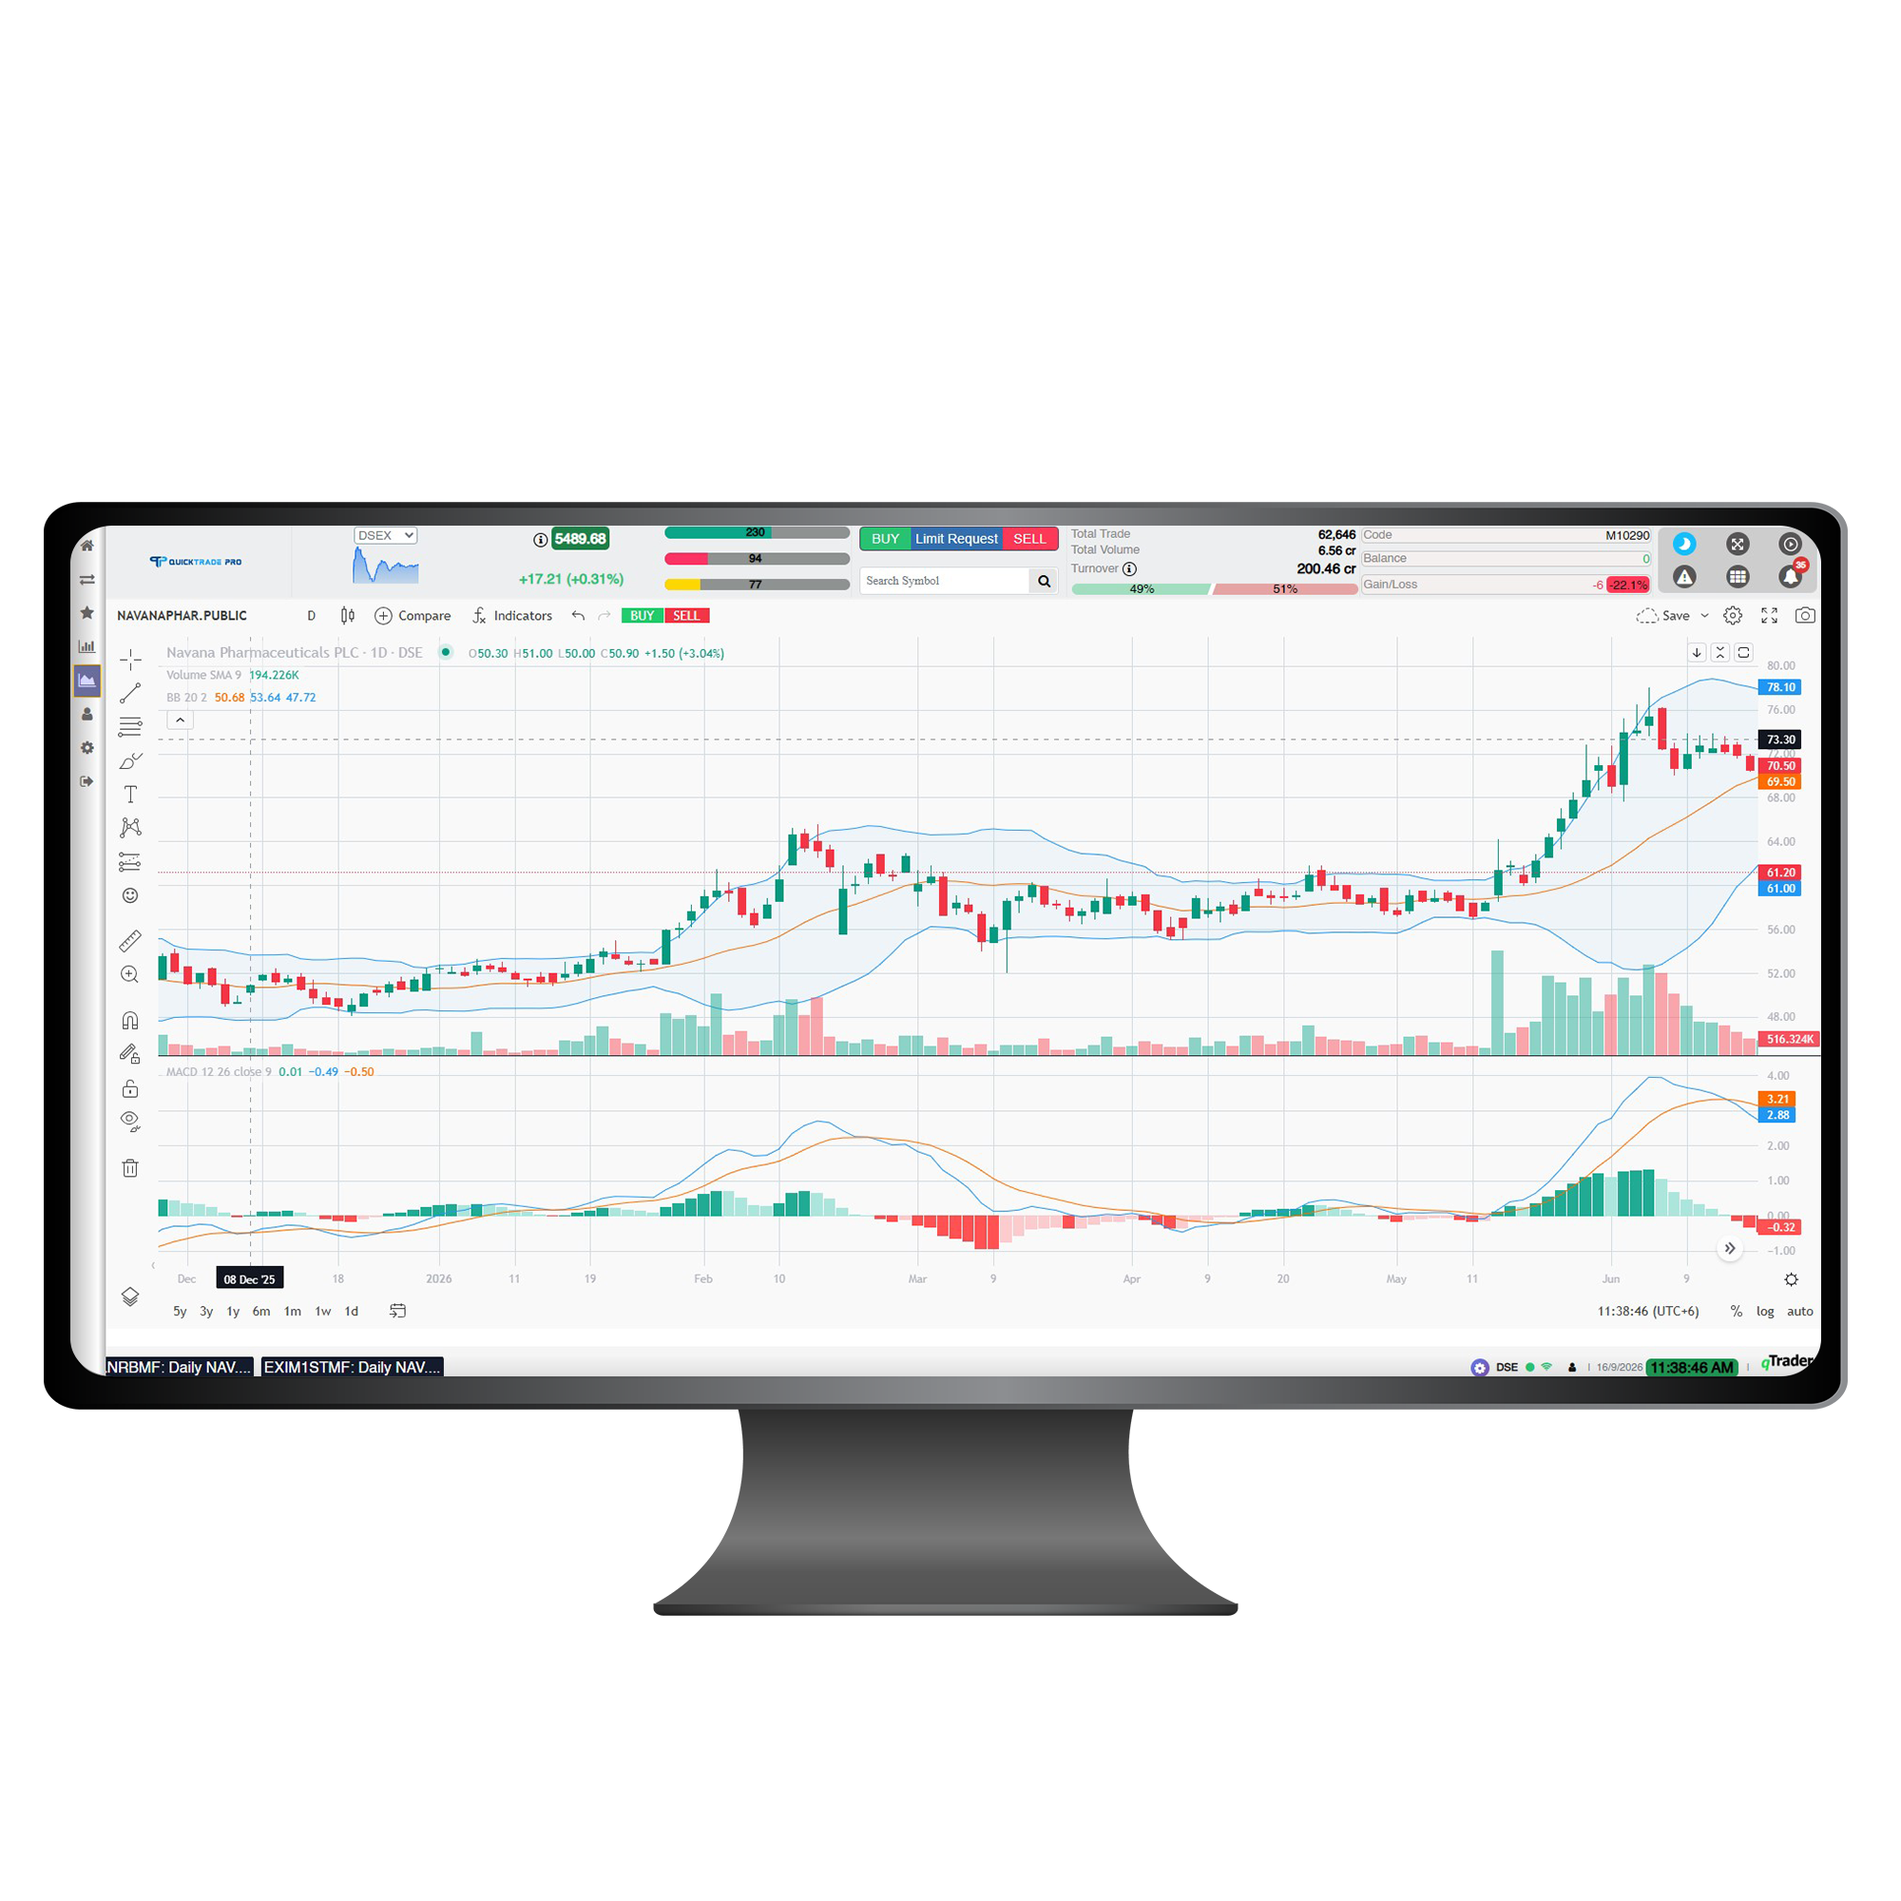
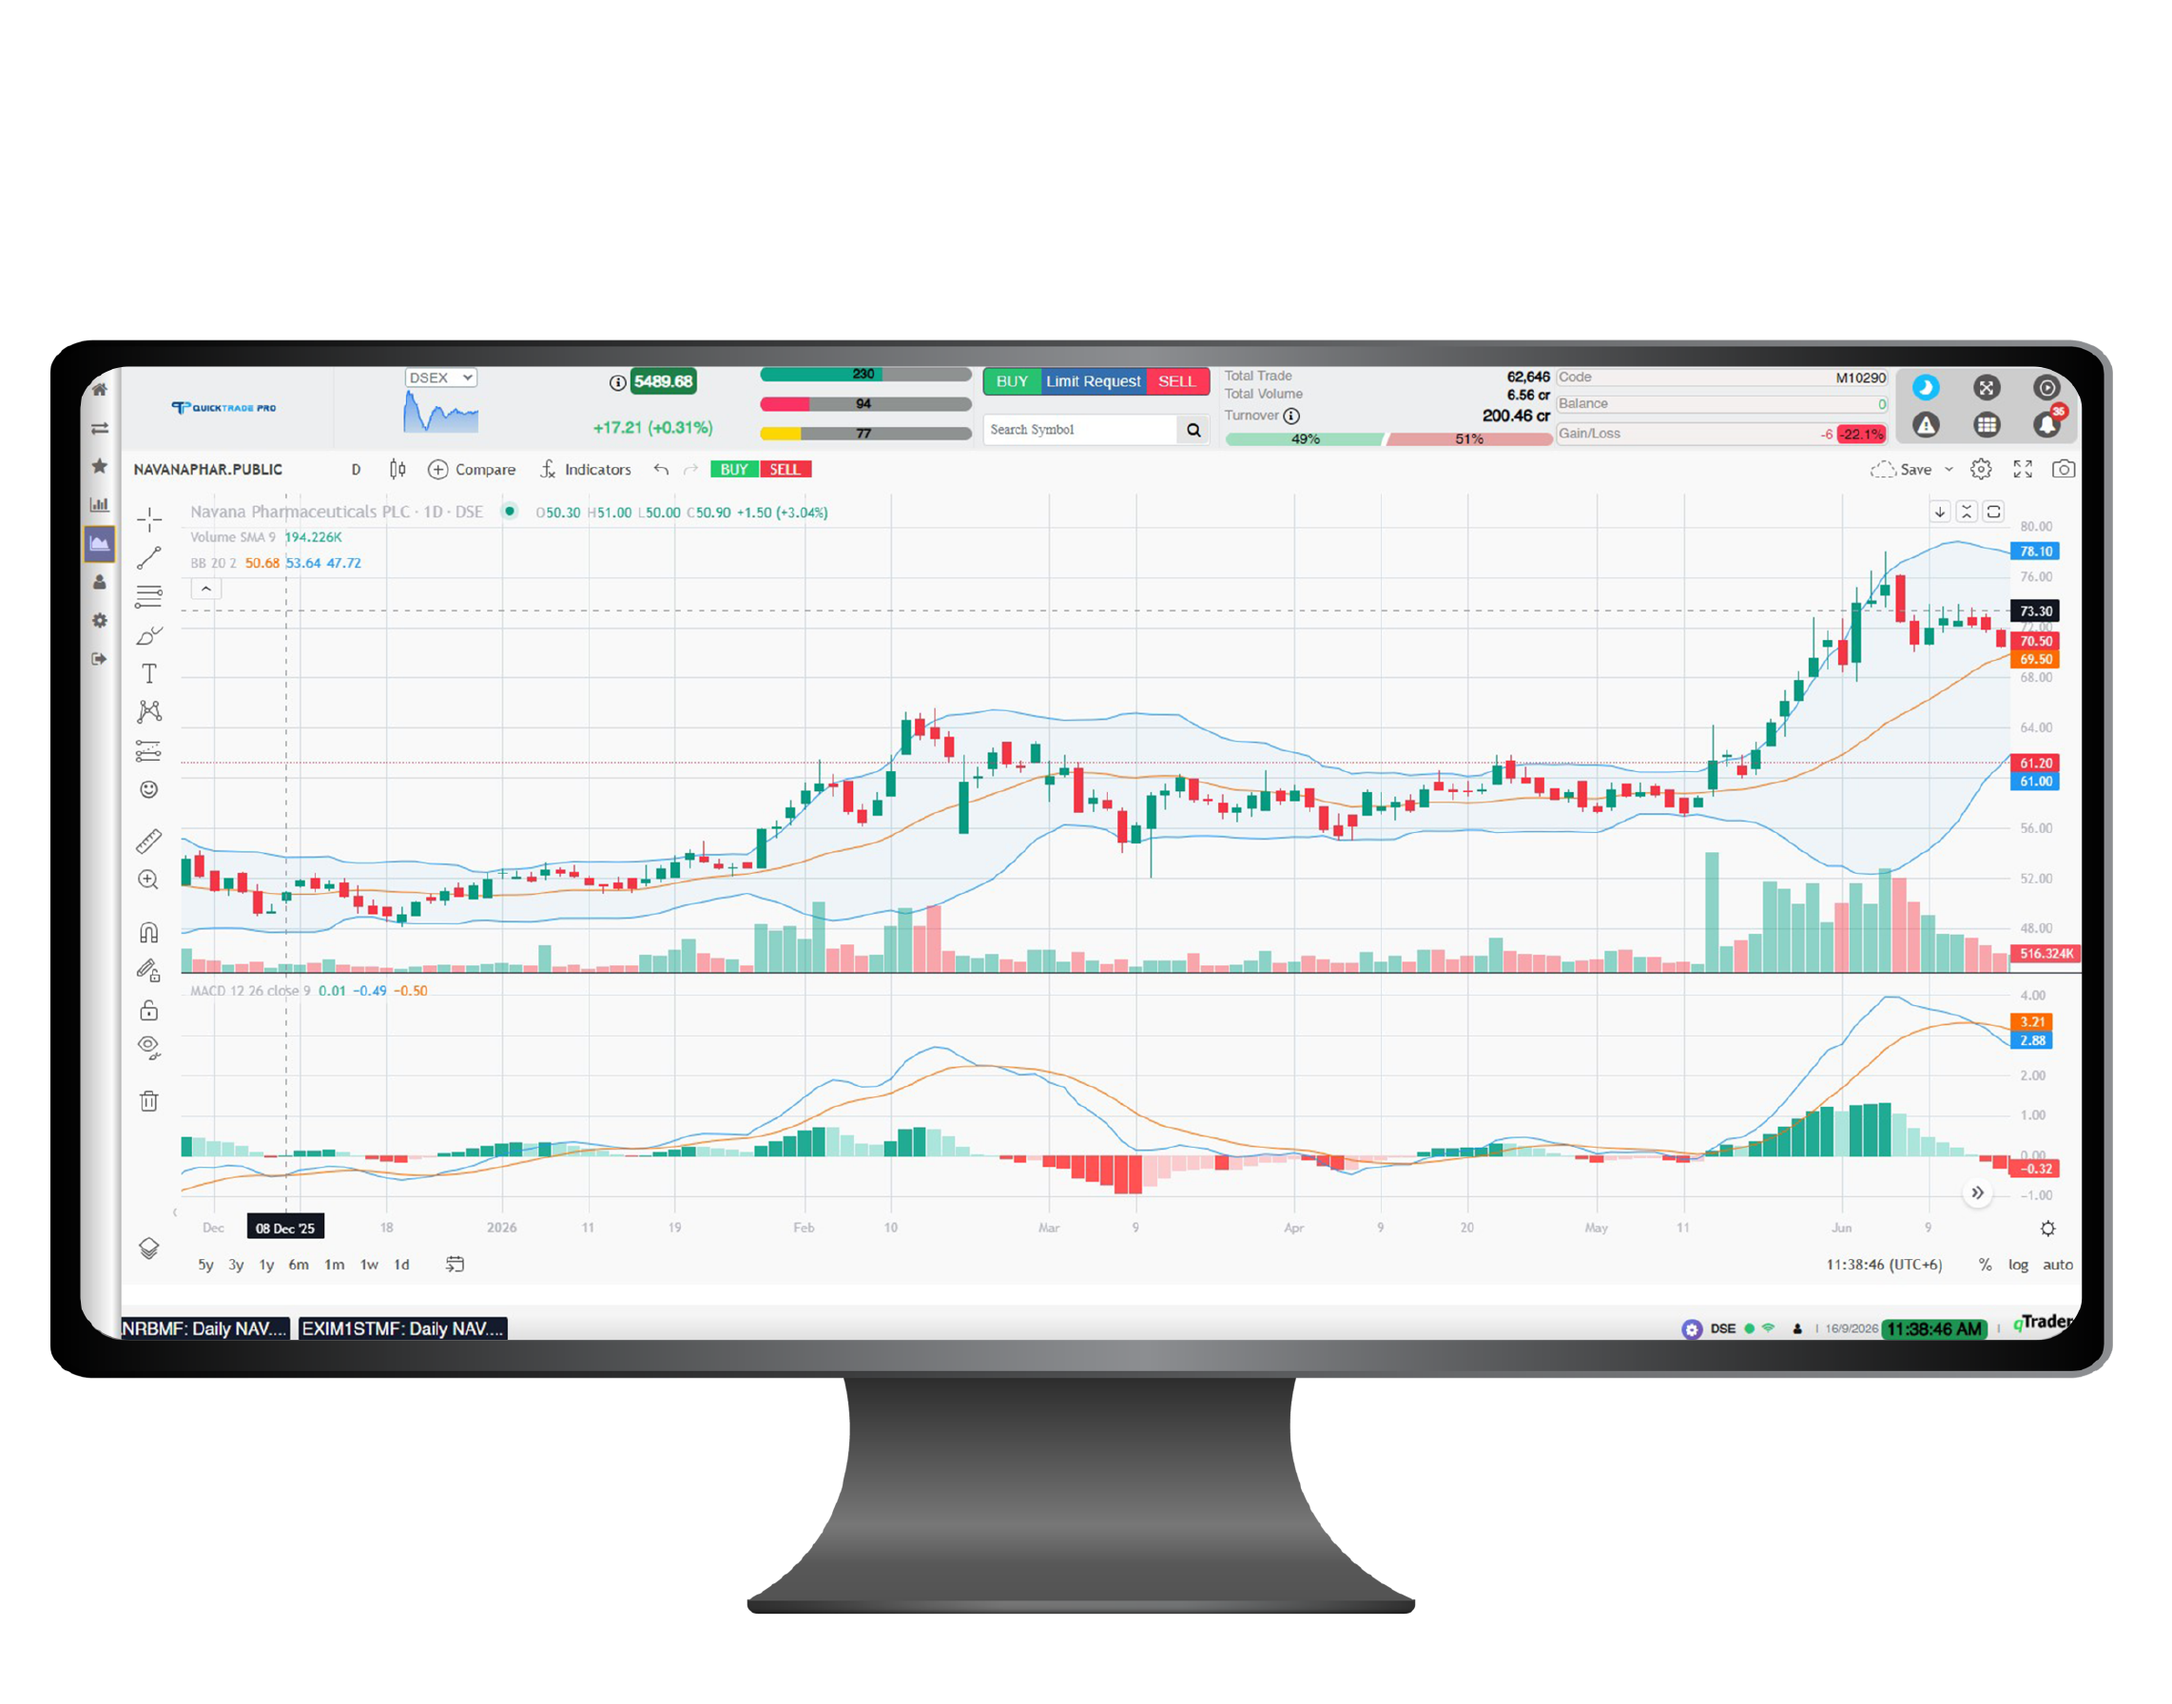
change title for production

Changed region(s): [[0.0, 0.1875, 0.992, 0.9688]]

diff --git a/app/page.js b/app/page.js
@@ -12,15 +12,12 @@ import { getABlog } from "@/lib/actions/blog/getABlog";
 import TabsSection from "./components/TabSection";
 import DownloadAppbutton from "./components/DownloadAppbutton";
 import TradingPlatforms from "./components/TradingPlatforms";
-import HeroCarousol from "./components/Home/hero-carousel";
-import HeroCarouselDesktop from "./components/Home/hero-carousel-desktop";
-import HeroSectionDesktop from "./components/Home/hero-section-desktop";
 
 const SITE_URL = process.env.NEXT_PUBLIC_SITE_URL || "https://www.midwaybd.com";
 
 export async function generateMetadata() {
   const title =
-    "Upcoming website | Midway Securities | Online Stock Trading Platform in Bangladesh";
+    "Midway Securities | Online Stock Trading Platform in Bangladesh";
   const description =
     "Trade online with Midway Securities — a DSE & CSE registered brokerage offering Real-time market trading, advanced charting, QuickTrade Pro mobile trading, and secure online account opening in Bangladesh.";
 

diff --git a/app/components/Home/hero-carousel.js b/app/components/Home/hero-carousel.js
@@ -1,8 +1,8 @@
 'use client'
 
 import mobile_app1 from '../../../public/images/home/hero-carousel/H1.gif';
-import mobile_app2 from '../../../public/images/home/hero-carousel/H2.svg';
-import hero_image2 from '../../../public/images/home/hero-carousel/H3.svg';
+import mobile_app2 from '../../../public/images/home/hero-carousel/OPEN_BO_ACCOUNT.png';
+import hero_image2 from '../../../public/images/home/hero-carousel/client_profile.png';
 import hero_image3 from '../../../public/images/home/hero-carousel/QTP-desktop.png';
 
 import Image from "next/image";

diff --git a/app/components/Home/hero-carousel-desktop.jsx b/app/components/Home/hero-carousel-desktop.jsx
@@ -1,8 +1,8 @@
 'use client'
 
 import mobile_app1 from '../../../public/images/home/hero-carousel/H1.gif';
-import mobile_app2 from '../../../public/images/home/hero-carousel/H2.svg';
-import hero_image2 from '../../../public/images/home/hero-carousel/H3.svg';
+import mobile_app2 from '../../../public/images/home/hero-carousel/OPEN_BO_ACCOUNT.png';
+import hero_image2 from '../../../public/images/home/hero-carousel/client_profile.png';
 
 import Image from "next/image";
 
